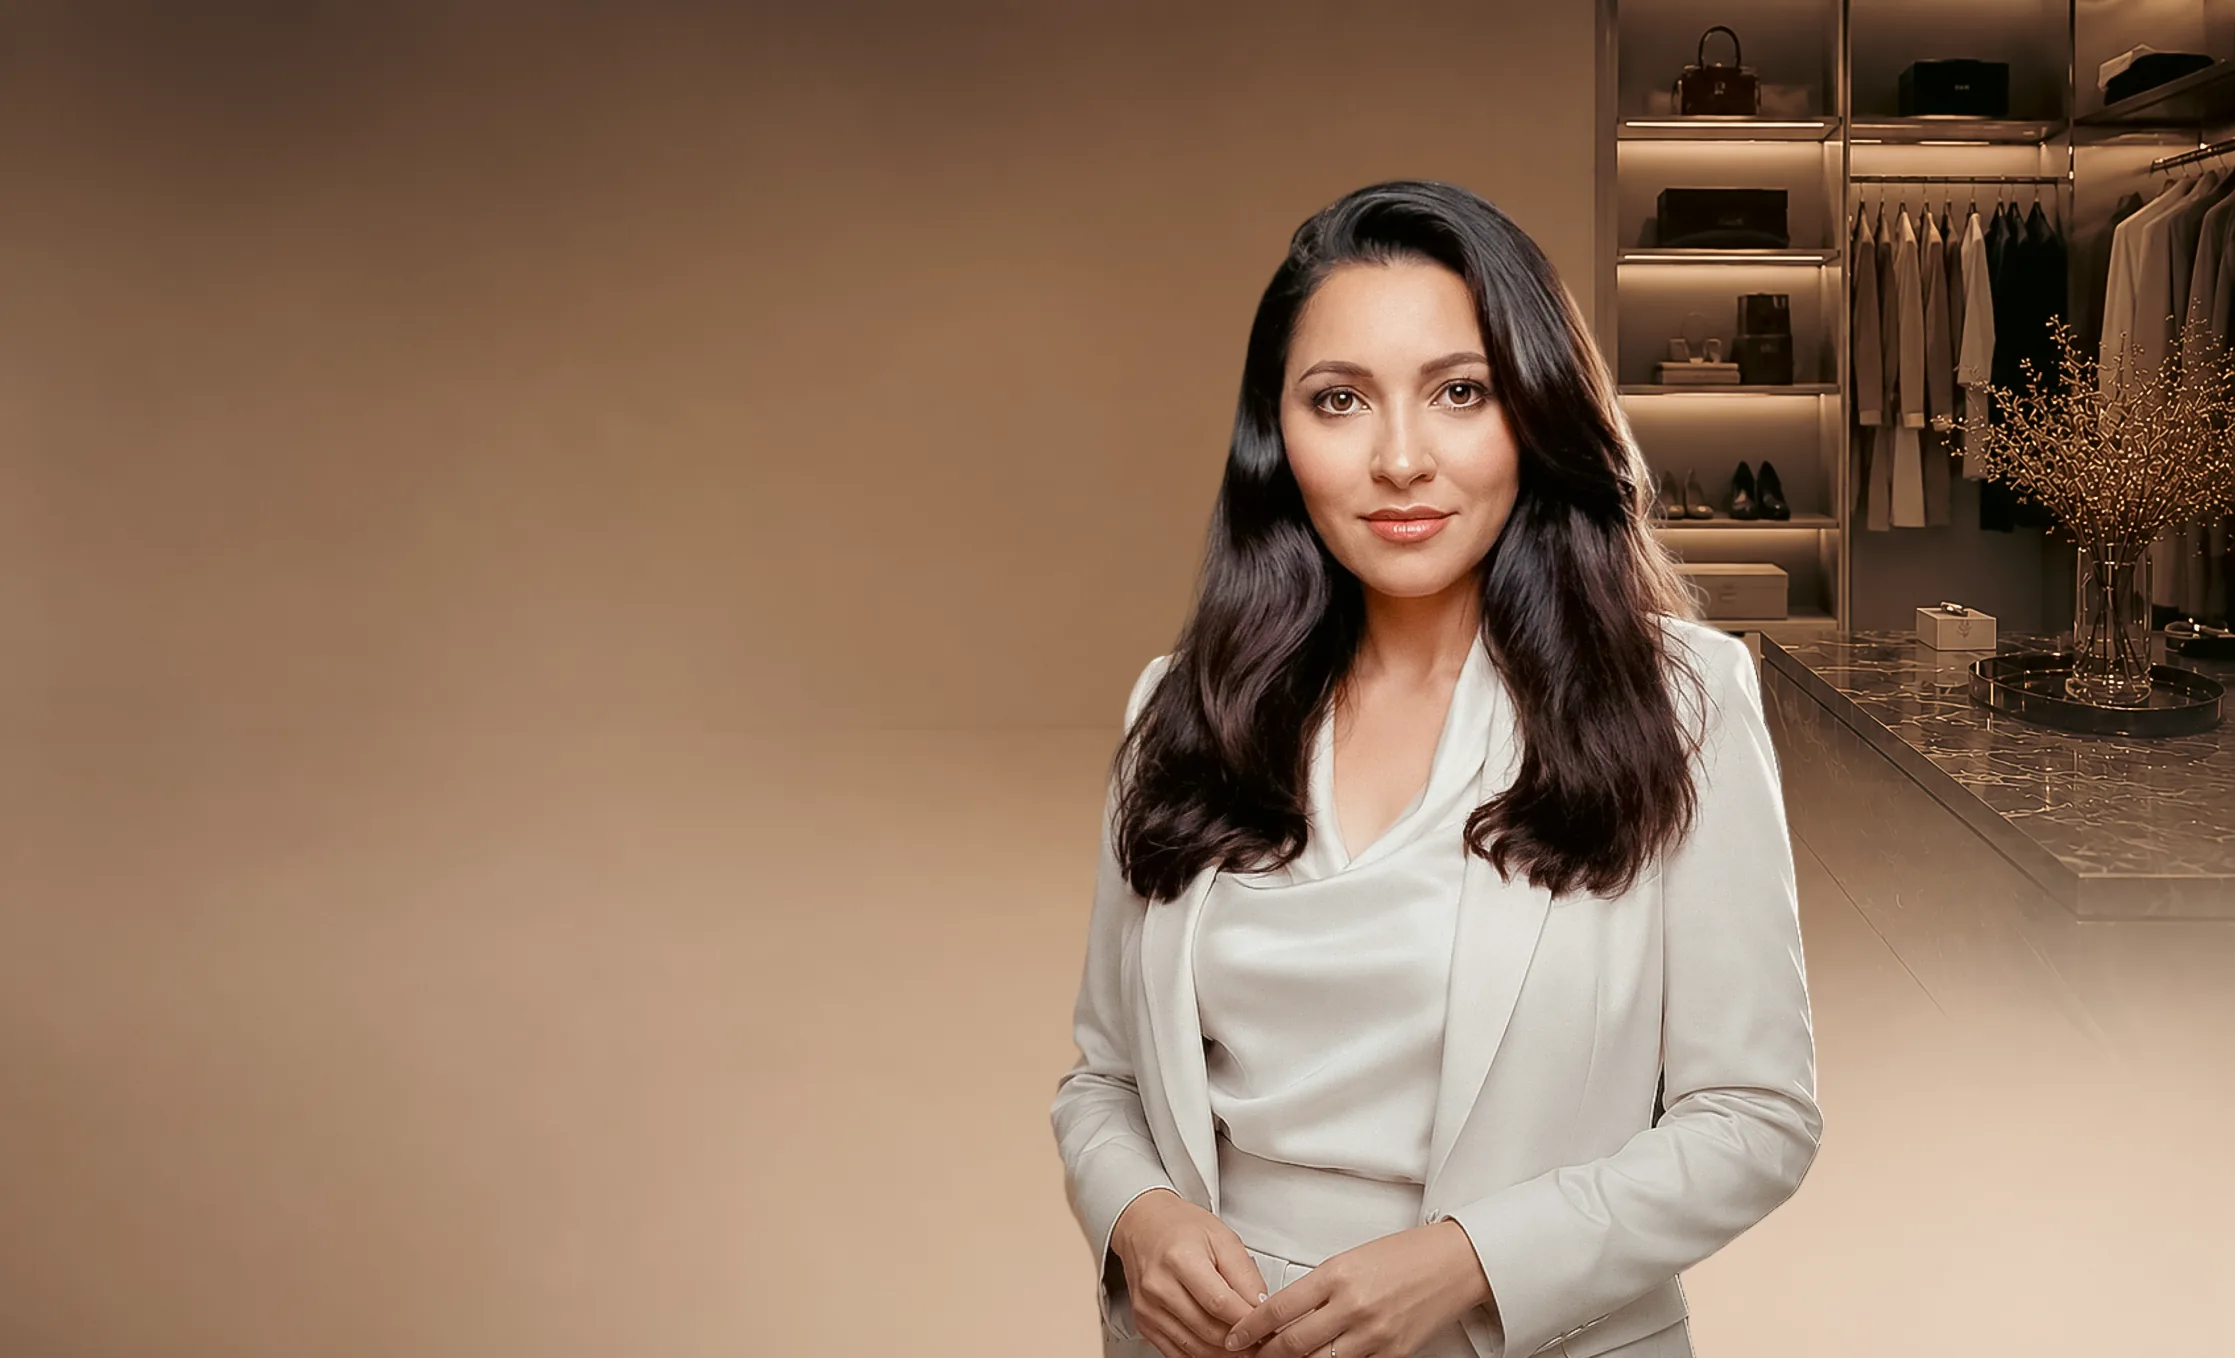
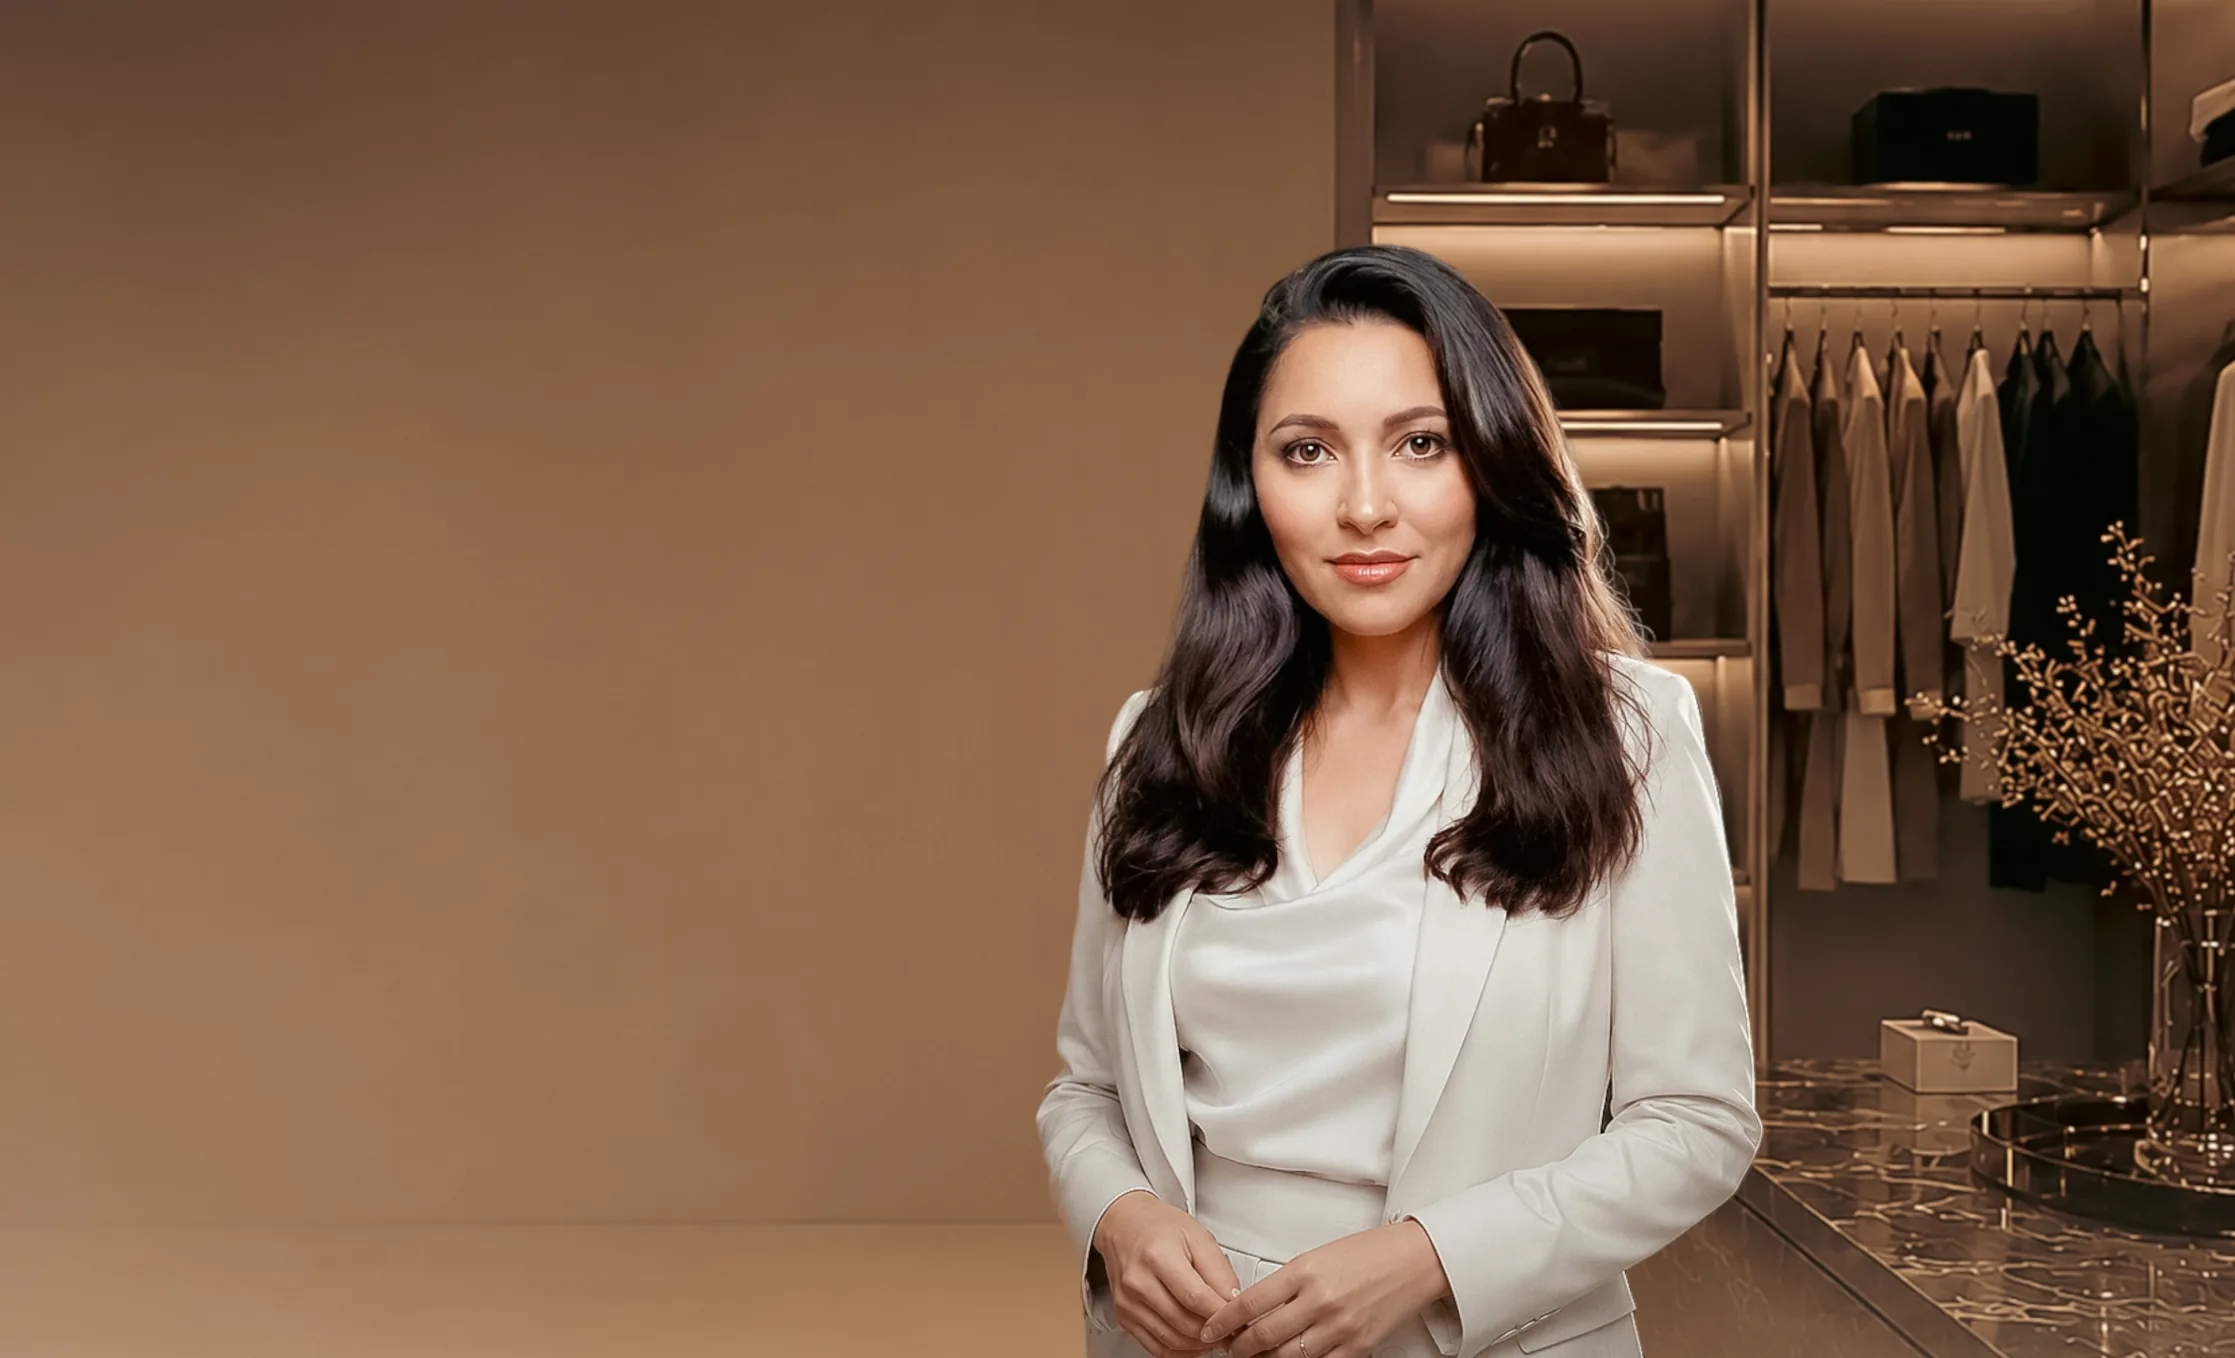
Natalias Design Änderungen

diff --git a/static/css/main.css b/static/css/main.css
@@ -3453,8 +3453,13 @@ main .hero .hero-copy {
   }
 
   main .hero .hero-topbar {
-    padding-left: var(--hero-left-axis);
+    padding-left: calc(var(--hero-left-axis) + 10rem);
     padding-right: var(--hero-left-axis);
+  }
+
+  main .hero .hero-coach-label {
+    transform: scale(1.3);
+    transform-origin: left center;
   }
 
   main .hero .hero-content-grid {
@@ -3465,6 +3470,7 @@ main .hero .hero-copy {
   main .hero .hero-copy-column {
     align-items: flex-start;
     max-width: min(100%, 33rem);
+    margin-left: 10rem;
   }
 
   main .hero .hero-headline,
@@ -3473,12 +3479,21 @@ main .hero .hero-copy {
     margin-left: 0;
   }
 
+  main .hero .hero-headline-smaller {
+    font-size: clamp(1.64rem, 6.72vw, 2.56rem) !important;
+  }
+
   main .hero .hero-details {
     max-width: min(100%, 31ch);
   }
 
   main .hero .hero-actions {
     align-self: flex-start;
+  }
+
+  .hero-second-line {
+    display: inline-block;
+    margin-left: 1.5rem;
   }
 }
 
@@ -3534,6 +3549,8 @@ main .hero .hero-copy {
   main .hero .hero-coach-label {
     font-size: clamp(0.62rem, 1.2vw, 0.72rem);
     line-height: 1.2;
+    transform: scale(1.5);
+    transform-origin: left center;
   }
 
   main .hero .hero-content-grid {

diff --git a/layouts/index.html b/layouts/index.html
@@ -38,7 +38,7 @@
     <div class="hero-content-grid">
       <!-- Hero Copy Column -->
       <div class="hero-copy-column">
-        <h1 class="hero-headline">{{ $hero.headline }}</h1>
+        <h1 class="hero-headline hero-headline-smaller"><span class="no-break">Mehr <span class="inline-term-tooltip inline-term-tooltip-start"><button class="inline-term-tooltip-trigger" type="button" aria-describedby="tooltip-stilgefuehl">Stilgefühl</button><span id="tooltip-stilgefuehl" class="inline-term-tooltip-panel" role="tooltip"><strong class="inline-term-tooltip-title">Stilgefühl</strong><strong class="inline-term-tooltip-lead">Sie möchten sich gut anziehen, aber es fehlt ein klarer roter Faden.</strong><span class="inline-term-tooltip-text">Stilgefühl bedeutet, zu erkennen, was wirklich zu Ihnen passt - unabhängig von Trends oder spontanen Impulsen. Es verbindet Farben, Schnitte, Proportionen und Vorlieben zu einem stimmigen, authentischen Look.</span></span></span>.</span> <span class="no-break hero-second-line">Weniger <span class="inline-term-tooltip inline-term-tooltip-start"><button class="inline-term-tooltip-trigger" type="button" aria-describedby="tooltip-fehlkaeufe">Fehlkäufe</button><span id="tooltip-fehlkaeufe" class="inline-term-tooltip-panel" role="tooltip"><strong class="inline-term-tooltip-title">Fehlkäufe</strong><strong class="inline-term-tooltip-lead">Der Kleiderschrank ist voll, aber viele Teile fühlen sich nicht nach Ihnen an.</strong><span class="inline-term-tooltip-text">Fehlkäufe entstehen oft, wenn Kleidung zwar schön aussieht, aber nicht zu Alltag, Figur, Farben oder Stilgefühl passt. So sammeln sich Einzelteile ohne funktionierende Outfits.</span></span></span>.</span></h1>
         <div class="hero-details">
           <p class="hero-detail">{{ $hero.detail_1 | safeHTML }}</p>
           <p class="hero-detail">{{ $hero.detail_2 | safeHTML }}</p>

diff --git a/content/de/_index.md b/content/de/_index.md
@@ -2,9 +2,9 @@
 title: "Natalia Kleemann"
 hero:
   eyebrow: "Natalia Kleemann | Style- und Imagecoach"
-  headline: "Kleidung, die zu deinem Leben passt."
-  detail_1: '<span class="no-break">Mehr <span class="inline-term-tooltip inline-term-tooltip-start"><button class="inline-term-tooltip-trigger" type="button" aria-describedby="tooltip-stilgefuehl">Stilgefühl</button><span id="tooltip-stilgefuehl" class="inline-term-tooltip-panel" role="tooltip"><strong class="inline-term-tooltip-title">Stilgefühl</strong><strong class="inline-term-tooltip-lead">Sie möchten sich gut anziehen, aber es fehlt ein klarer roter Faden.</strong><span class="inline-term-tooltip-text">Stilgefühl bedeutet, zu erkennen, was wirklich zu Ihnen passt - unabhängig von Trends oder spontanen Impulsen. Es verbindet Farben, Schnitte, Proportionen und Vorlieben zu einem stimmigen, authentischen Look.</span></span></span></span>. <span class="no-break">Weniger <span class="inline-term-tooltip inline-term-tooltip-start"><button class="inline-term-tooltip-trigger" type="button" aria-describedby="tooltip-fehlkaeufe">Fehlkäufe</button><span id="tooltip-fehlkaeufe" class="inline-term-tooltip-panel" role="tooltip"><strong class="inline-term-tooltip-title">Fehlkäufe</strong><strong class="inline-term-tooltip-lead">Der Kleiderschrank ist voll, aber viele Teile fühlen sich nicht nach Ihnen an.</strong><span class="inline-term-tooltip-text">Fehlkäufe entstehen oft, wenn Kleidung zwar schön aussieht, aber nicht zu Alltag, Figur, Farben oder Stilgefühl passt. So sammeln sich Einzelteile ohne funktionierende Outfits.</span></span></span></span>.'
-  detail_2: 'Für Frauen und Männer, die <span class="inline-term-tooltip inline-term-tooltip-start"><button class="inline-term-tooltip-trigger" type="button" aria-describedby="tooltip-qualitaet">Qualität</button><span id="tooltip-qualitaet" class="inline-term-tooltip-panel" role="tooltip"><strong class="inline-term-tooltip-title">Qualität</strong><strong class="inline-term-tooltip-lead">Weniger Fehlkäufe schaffen Raum für bessere Kleidung.</strong><span class="inline-term-tooltip-text">Wenn Sie wissen, was wirklich zu Ihnen passt, kaufen Sie automatisch weniger und investieren bewusster in hochwertige Stoffe, gute Verarbeitung und langlebige Lieblingsstücke.</span></span></span> und <span class="inline-term-tooltip inline-term-tooltip-start"><button class="inline-term-tooltip-trigger" type="button" aria-describedby="tooltip-wirkung">Wirkung</button><span id="tooltip-wirkung" class="inline-term-tooltip-panel" role="tooltip"><strong class="inline-term-tooltip-title">Wirkung</strong><strong class="inline-term-tooltip-lead">Der erste Eindruck entsteht, bevor Sie Ihr erstes Argument genannt haben.</strong><span class="inline-term-tooltip-text">Auftreten sendet Signale, bevor Sie sprechen. Kleidung, Farben und Stil beeinflussen, ob Sie souverän, sympathisch, kompetent oder authentisch wahrgenommen werden.</span></span></span> schätzen.'
+  headline: ""
+  detail_1: 'Individuelle Stilberatung für Frauen und Männer, die <span class="inline-term-tooltip inline-term-tooltip-start"><button class="inline-term-tooltip-trigger" type="button" aria-describedby="tooltip-qualitaet">Qualität</button><span id="tooltip-qualitaet" class="inline-term-tooltip-panel" role="tooltip"><strong class="inline-term-tooltip-title">Qualität</strong><strong class="inline-term-tooltip-lead">Weniger Fehlkäufe schaffen Raum für bessere Kleidung.</strong><span class="inline-term-tooltip-text">Wenn Sie wissen, was wirklich zu Ihnen passt, kaufen Sie automatisch weniger und investieren bewusster in hochwertige Stoffe, gute Verarbeitung und langlebige Lieblingsstücke.</span></span></span> und <span class="inline-term-tooltip inline-term-tooltip-start"><button class="inline-term-tooltip-trigger" type="button" aria-describedby="tooltip-wirkung">Wirkung</button><span id="tooltip-wirkung" class="inline-term-tooltip-panel" role="tooltip"><strong class="inline-term-tooltip-title">Wirkung</strong><strong class="inline-term-tooltip-lead">Der erste Eindruck entsteht, bevor Sie Ihr erstes Argument genannt haben.</strong><span class="inline-term-tooltip-text">Auftreten sendet Signale, bevor Sie sprechen. Kleidung, Farben und Stil beeinflussen, ob Sie souverän, sympathisch, kompetent oder authentisch wahrgenommen werden.</span></span></span> schätzen.'
+  detail_2: ""
   detail_3: "<br><br>Lass uns gemeinsam starten."
   ctaText: "Kostenloses Erstgespräch"
   ctaHref: "https://calendar.app.google/sPZWYZT6vfK9NMim7"